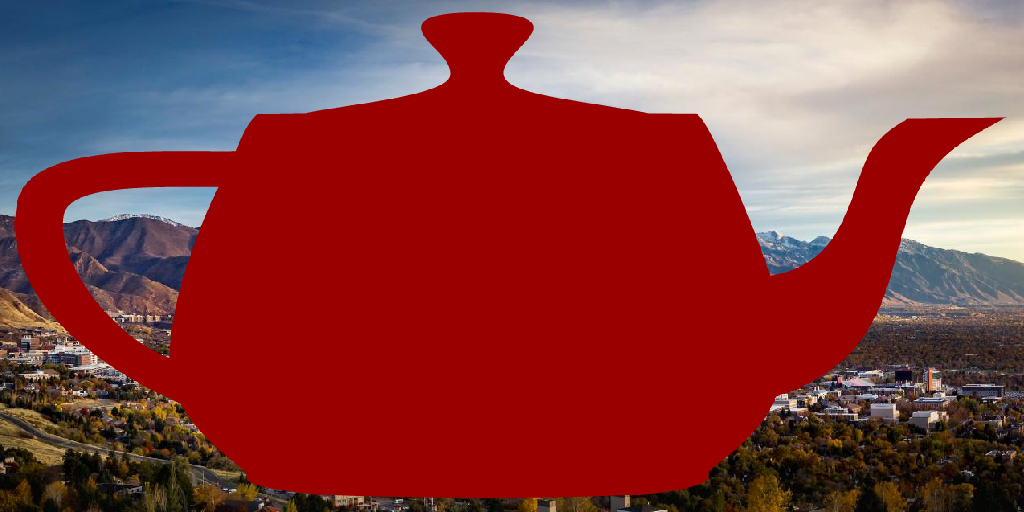
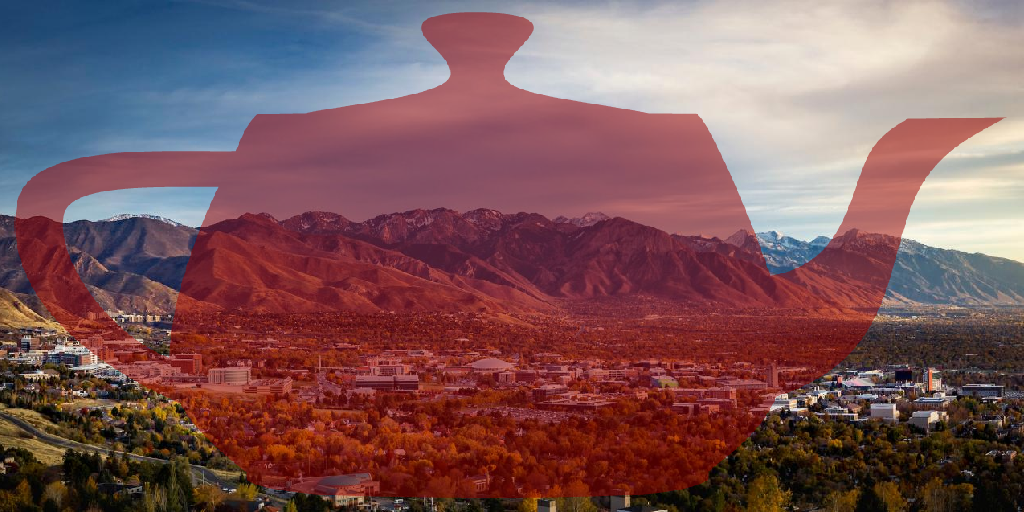
renamed some variables to make algorithm a little more readable

diff --git a/src/main.rs b/src/main.rs
@@ -1,4 +1,3 @@
-//! An example of opening an image.
 use std::path::Path;
 
 const BG_SOURCE: &str = "./assets/background.png";
@@ -9,18 +8,20 @@ fn alpha_blend(bg: &image::Rgba<u8>, fg: &image::Rgba<u8>) -> image::Rgba<u8> {
     let image::Rgba([r0, g0, b0, a0]) = *bg;
     let image::Rgba([r1, g1, b1, a1]) = *fg;
 
-    let a0_f = a0 as f64 / 255.0;
-    let a1_f = a1 as f64 / 255.0;
-    let a_comp_f = a1_f + a0_f * (1.0 - a1_f);
+    let bg_alpha = a0 as f64 / 255.0;
+    let fg_alpha = a1 as f64 / 255.0 / 2.0;
+    let comp_alpha = fg_alpha + bg_alpha * (1.0 - fg_alpha);
+    
+    let a_blend = |bg_comp, fg_comp| {
+        let raw =
+            (fg_comp as f64 * fg_alpha) + (bg_comp as f64 * bg_alpha) * (1.0 - fg_alpha);
+        (raw / comp_alpha).floor() as u8
+    };
 
-    let cr = ((r1 as f64 * a1_f) + (r0 as f64 * a0_f) * (1.0 - a1_f)) / a_comp_f;
-    let cg = ((g1 as f64 * a1_f) + (g0 as f64 * a0_f) * (1.0 - a1_f)) / a_comp_f;
-    let cb = ((b1 as f64 * a1_f) + (b0 as f64 * a0_f) * (1.0 - a1_f)) / a_comp_f;
-      
-    image::Rgba([cr.floor() as u8,
-                 cg.floor() as u8,
-                 cb.floor() as u8,
-                 (a_comp_f * 255.0).floor() as u8
+    image::Rgba([a_blend(r0, r1),
+                 a_blend(g0, g1),
+                 a_blend(b0, b1),
+                 (comp_alpha * 255.0).floor() as u8
     ])
 }
 
